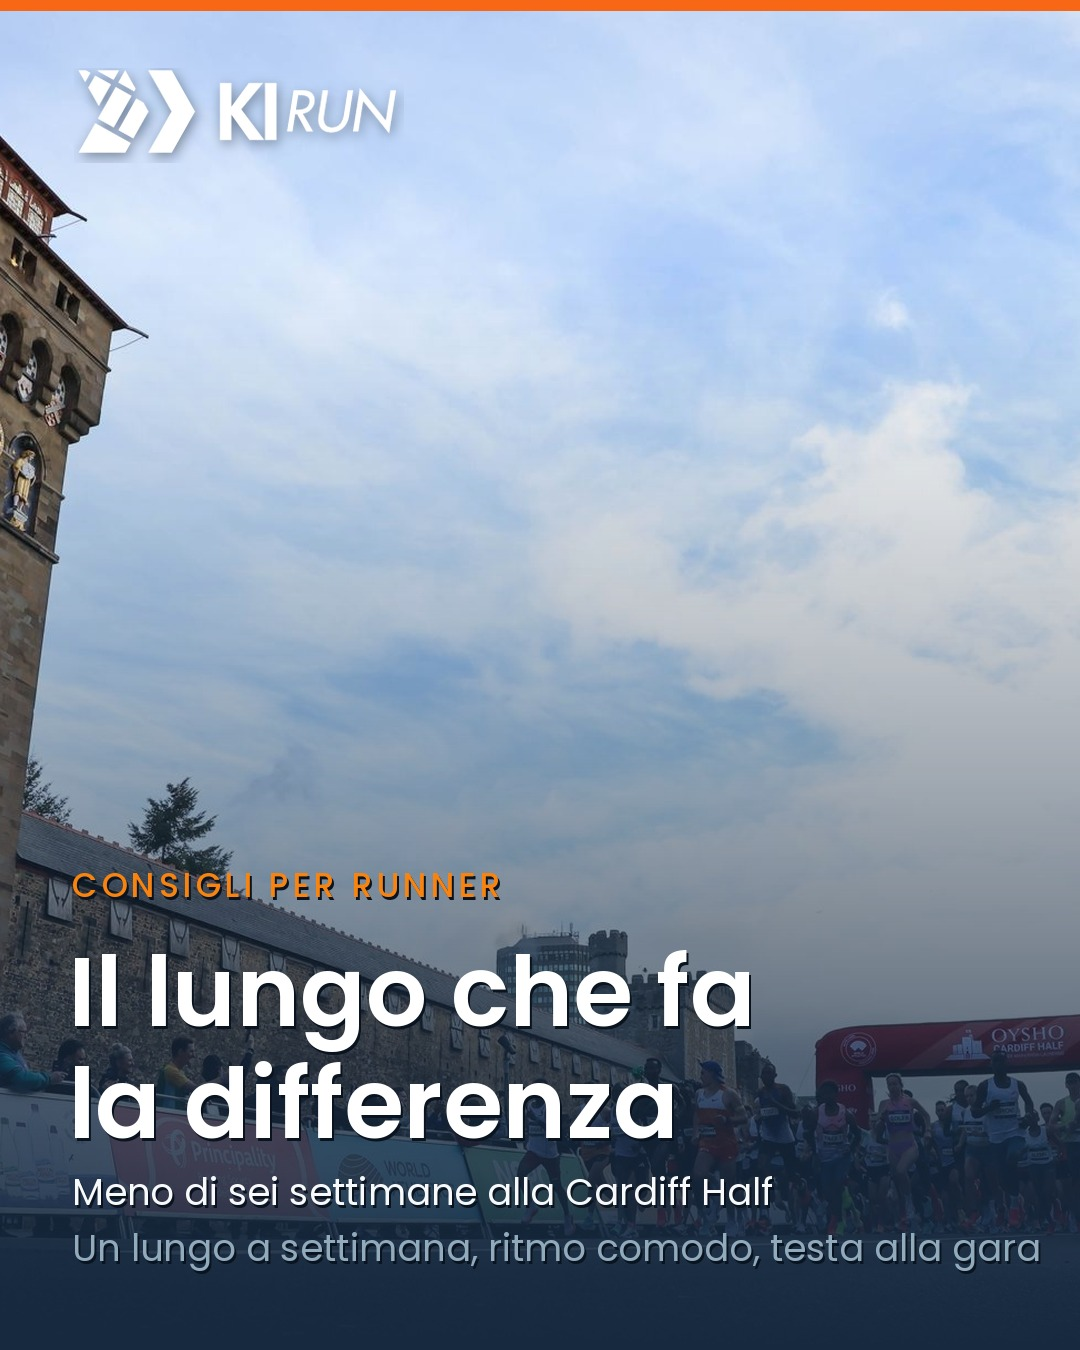
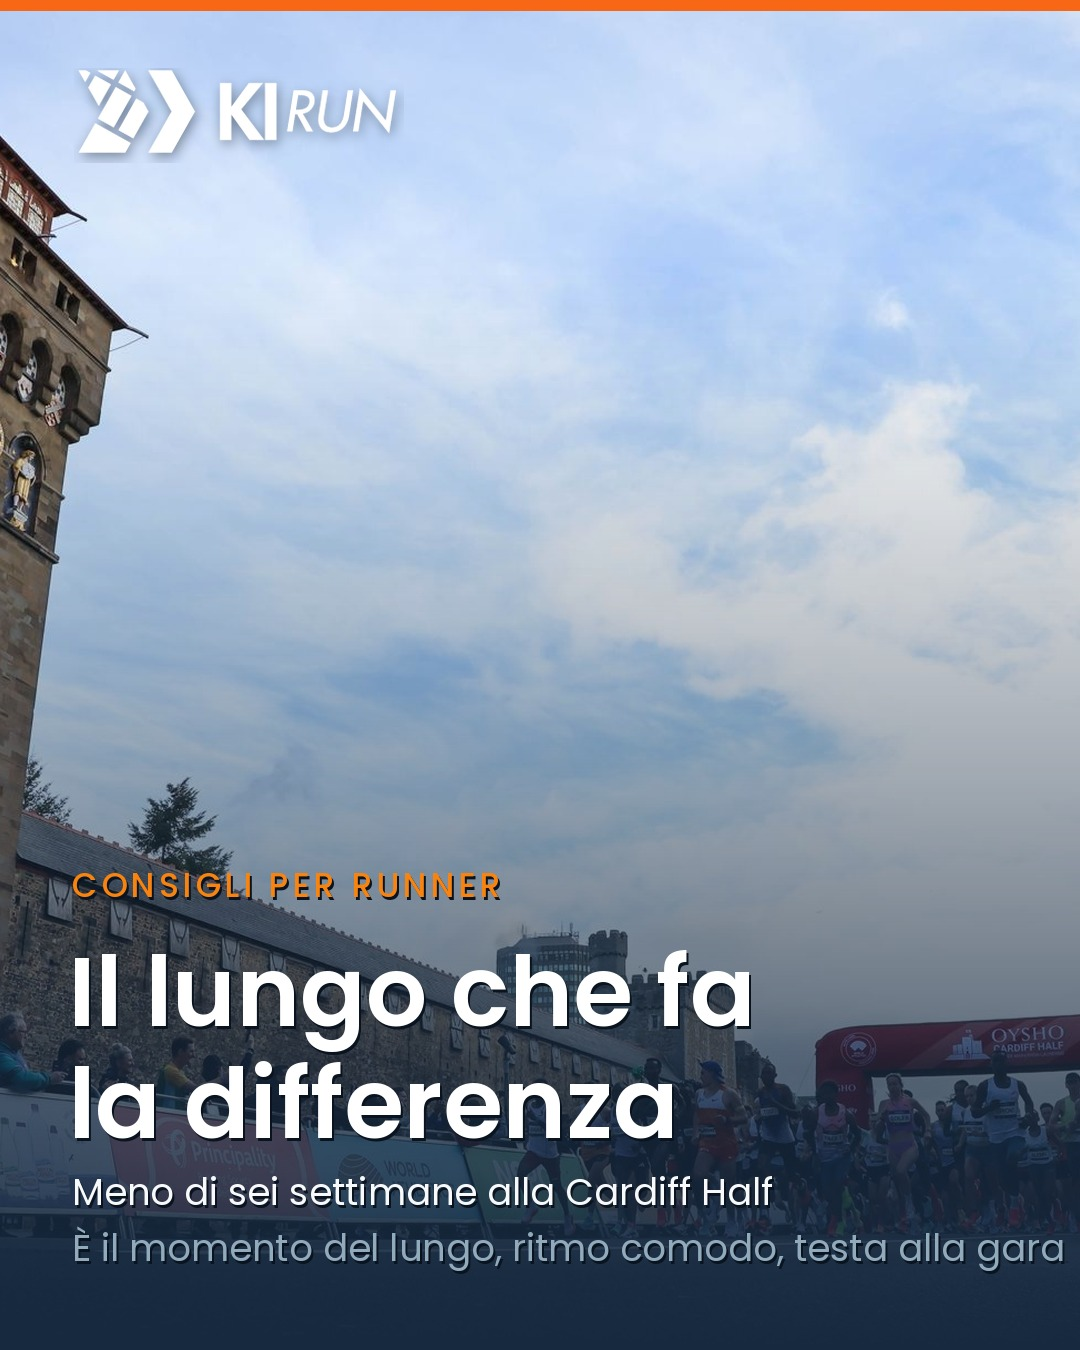
rubriche: card Cardiff, riga info2 come da nota di Roberto

Changed region(s): [[0.6722, 0.9022, 1.0, 0.9644], [0.0611, 0.9022, 0.3972, 0.9644], [0.4278, 0.9022, 0.6417, 0.9644]]

diff --git a/scripts/rubriche.py b/scripts/rubriche.py
@@ -18,7 +18,7 @@ CARDS = {
         "kicker": "CONSIGLI PER RUNNER",
         "title": ["Il lungo che fa", "la differenza"],
         "info1": "Meno di sei settimane alla Cardiff Half",
-        "info2": "Un lungo a settimana, ritmo comodo, testa alla gara",
+        "info2": "È il momento del lungo, ritmo comodo, testa alla gara",
     },
     "rubrica-allenamento-valencia-half-2026": {
         "template": "tip",
